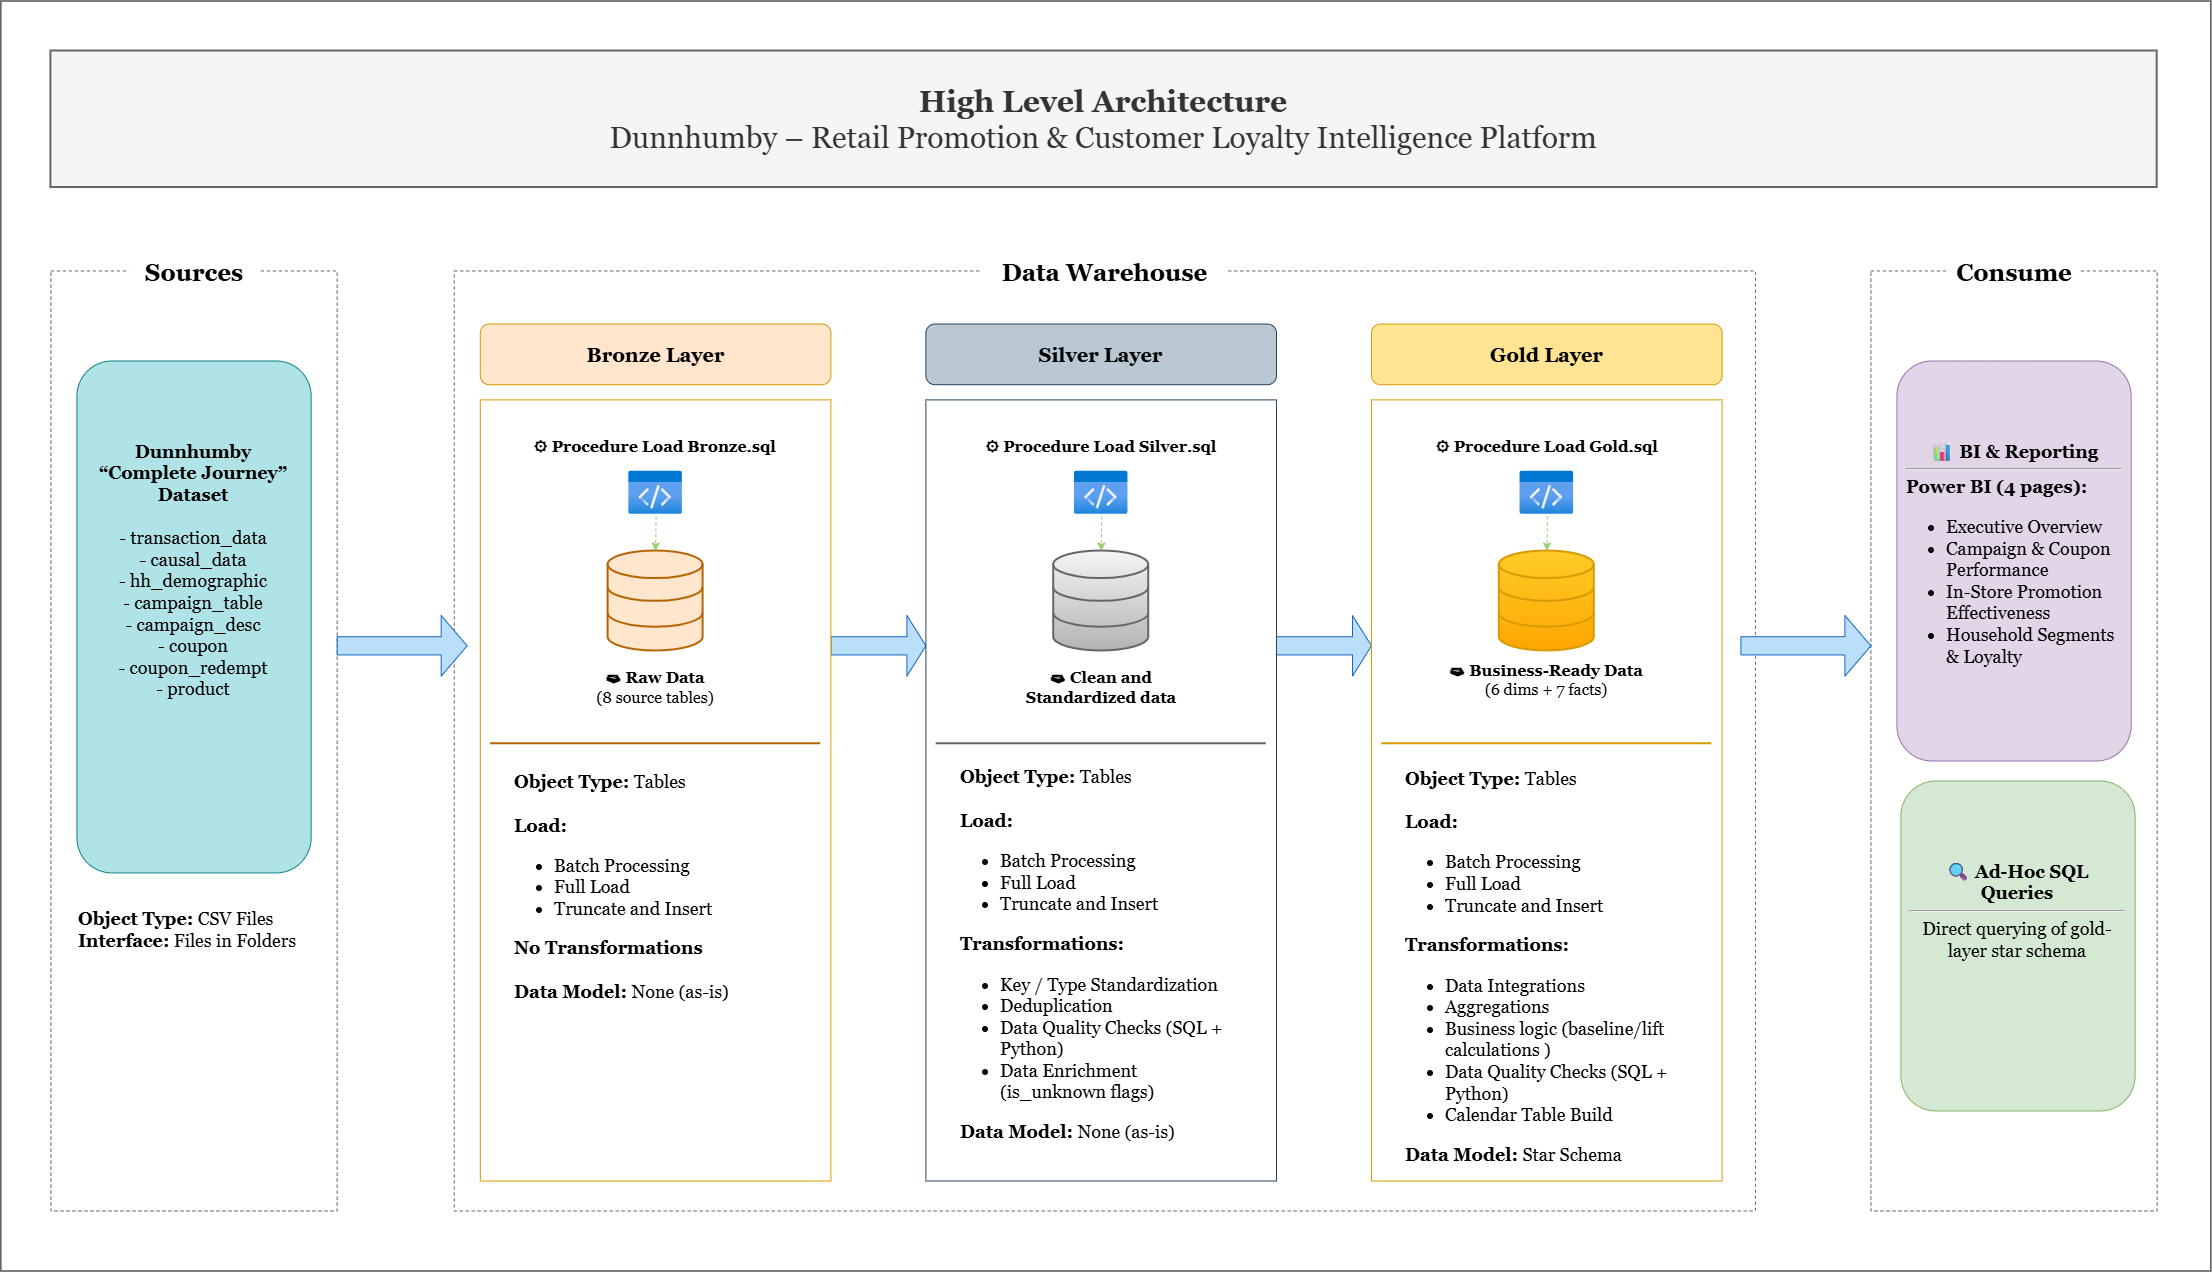
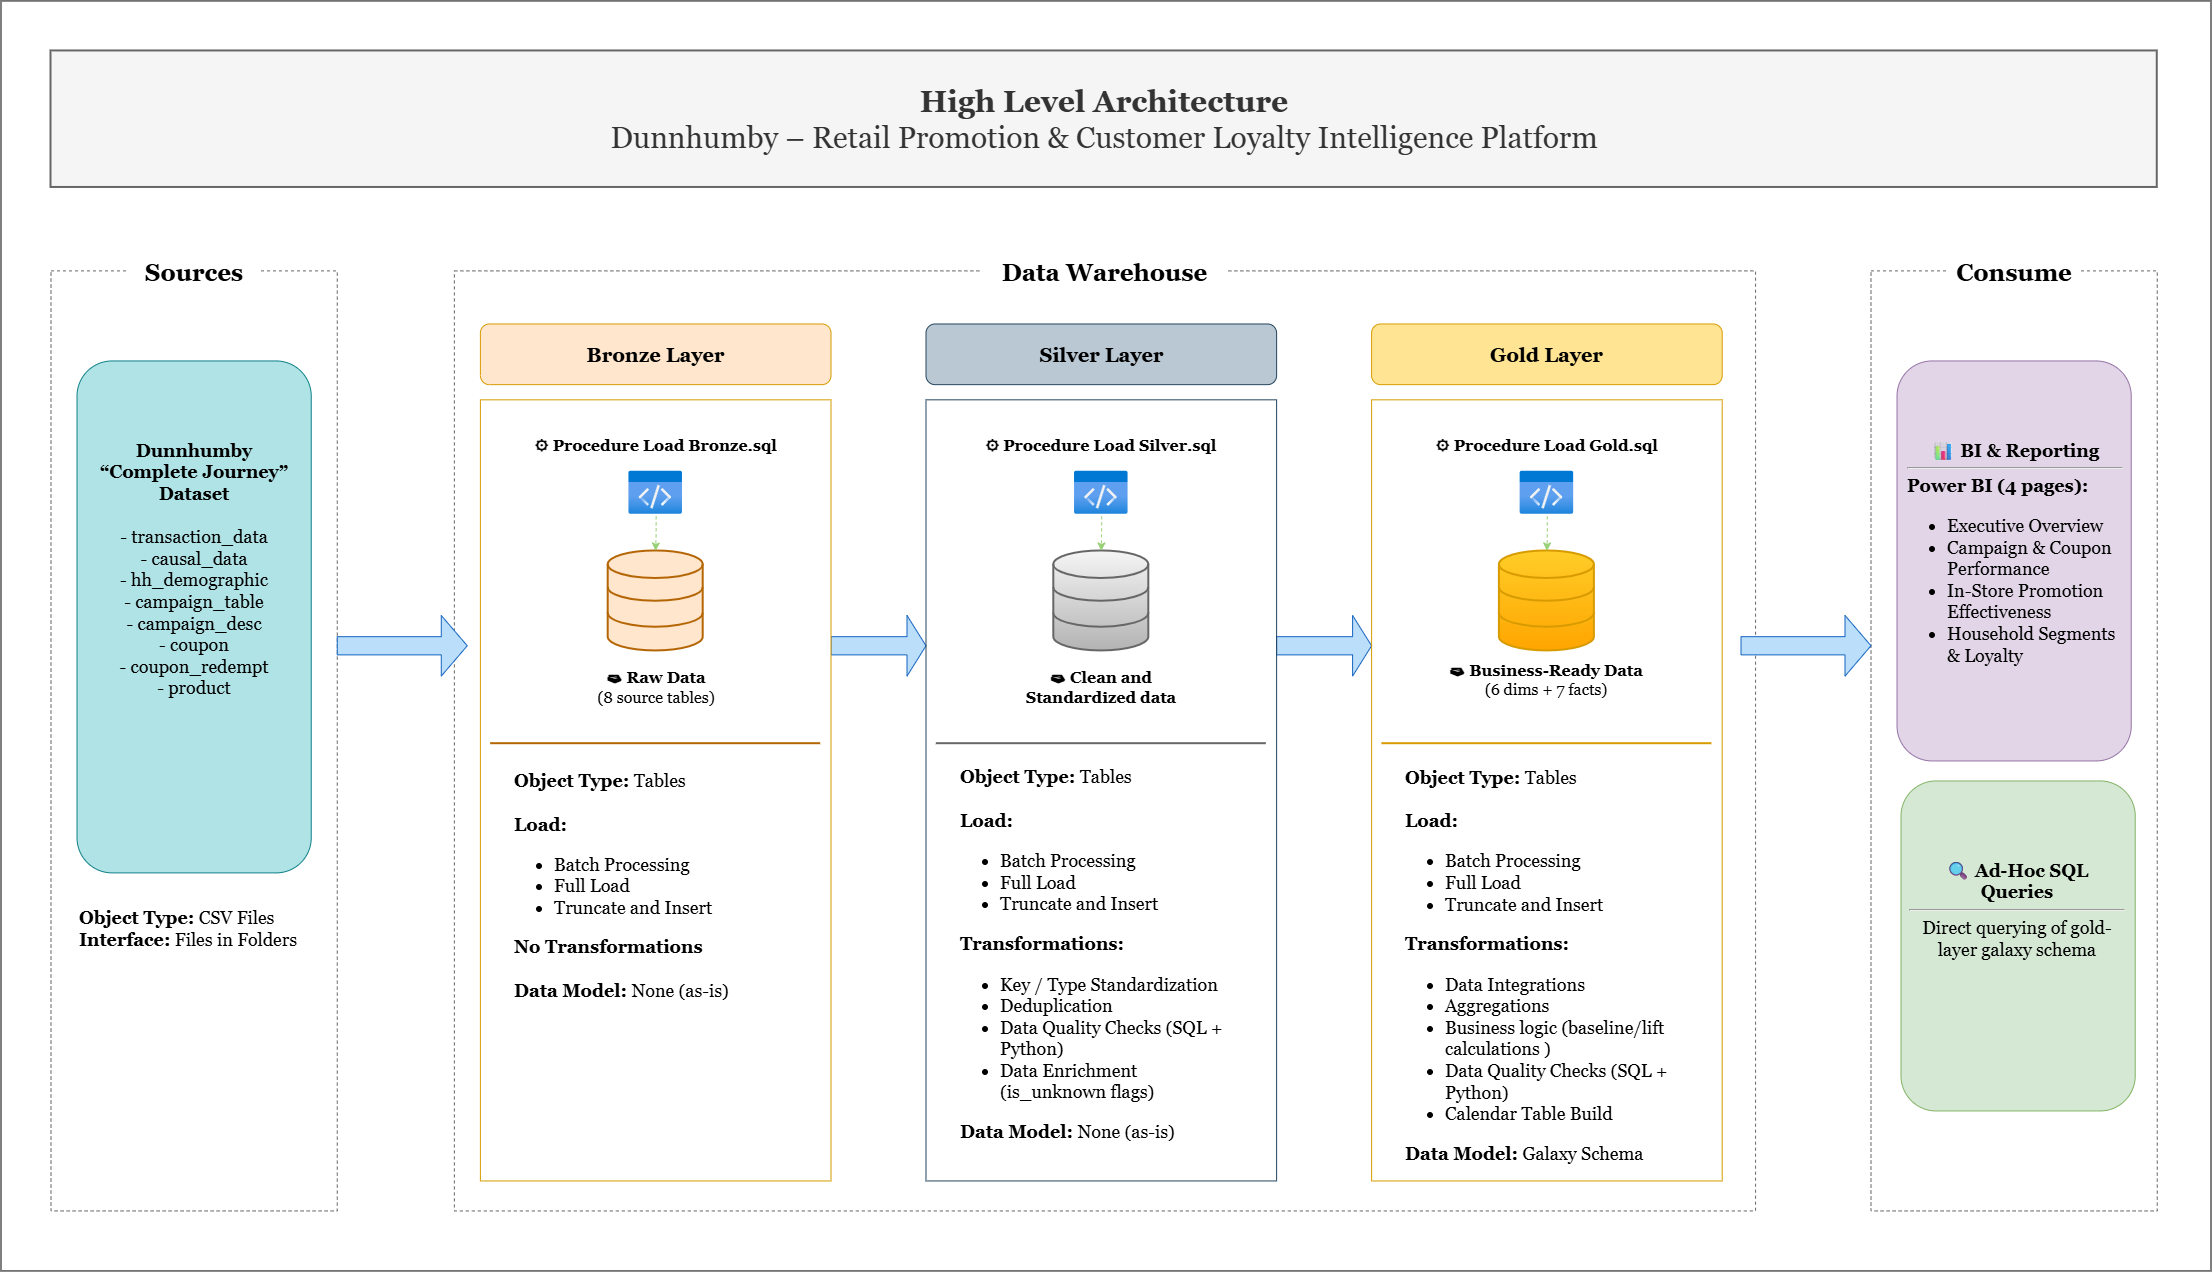
updated few comment scripts

diff --git a/tests/test_data_quality_gold.py b/tests/test_data_quality_gold.py
@@ -8,14 +8,16 @@ Script Purpose:
         - Null checks on required columns across dimension and fact tables
         - Duplicate key checks on unique primary and composite keys
         - Referential integrity checks validating child FKs exist in parent dimensions
-        - Row-count reconciliation comparing gold facts against silver sources
+        - Row-count reconciliation comparing gold tables against silver sources
         - Business threshold checks (MIN_DAYS >= 5 filter in gold.fact_campaign_lift)
-        - Redemption event integrity checks (DISTINCT redemption_event_key count 
-          matching silver source to account for product fan-out)
+        - Redemption event population checks (row count vs. a DISTINCT silver-side
+          grain to account for product fan-out)
 
-    Each check is parametrized where applicable (nulls, duplicates, referential
-    integrity, row counts) so a single test function covers every configured 
-    table/column combination dynamically.
+    Null checks, duplicate key checks, and referential integrity checks are
+    parametrized dynamically off the TABLE_CHECKS config, so one test function
+    covers every configured table/column combination. Row-count reconciliation
+    and business-logic checks are implemented as individual per-table test
+    functions.
 
 Usage Example:
     & "D:\Python 3.14.0\python.exe" -m pytest tests/test_data_quality_gold.py -v

diff --git a/README.md b/README.md
@@ -15,7 +15,7 @@ The focus is on identifying which promotions, campaigns, stores, and customer se
 ## 🎯 Project Goals
 
 - Build an end-to-end **Bronze → Silver → Gold data warehouse** using SQL Server.
-- Transform raw retail data into a clean, analytics-ready **star schema**.
+- Transform raw retail data into a clean, analytics-ready **galaxy schema**.
 - Establish behavioral **baseline sales** to estimate expected spending without promotion.
 - Measure **incremental sales lift** and identify **wasted promotional spend**.
 - Evaluate promotional effectiveness across **campaigns, coupons, mailers, displays, stores, categories, and household segments**.
@@ -42,9 +42,9 @@ The focus is on identifying which promotions, campaigns, stores, and customer se
 |---|---|
 | **Bronze** | Raw data loaded as-is from source CSVs, no transformation |
 | **Silver** | Cleaned, standardized, deduplicated data with data quality checks and explicit unknown-record handling |
-| **Gold** | Star-schema dimensional model with behavioral baselines, incremental lift, and wasted spend calculated |
+| **Gold** | Galaxy-schema dimensional model with behavioral baselines, incremental lift, and wasted spend calculated |
 
-See [`docs/data_model.png`](./docs/data_model.png) for the Gold-layer star schema and [`docs/data_integration.png`](./docs/data_integration.png) for the end-to-end data flow.
+See [`docs/data_model.png`](./docs/data_model.png) for the Gold-layer galaxy schema and [`docs/data_integration.png`](./docs/data_integration.png) for the end-to-end data flow.
 
 ---
 
@@ -80,7 +80,7 @@ Full detail, visuals, and interpretation notes: [`powerbi/Readme.md`](./powerbi/
 |---|---|
 | **Executive Overview** | ~$1.45M in discount spend generated only ~$230.66K in incremental sales (~6× spend-to-lift, roughly $0.16 incremental sales per $1 spent). 18.97% of spend was wasted. |
 | **Campaign & Coupon Performance** | Total incremental lift across campaigns is ~-$24.86M; most campaigns run 85–93% below baseline. Coupon redemption rate: 39.80%. |
-| **In-Store Promotion Effectiveness** | Mailer promotions generate positive lift (~$1.15K/day); display promotions generate negative lift (~-$167.71/day). |
+| **In-Store Promotion Effectiveness** | Mailer promotions generate positive lift (\~$1.15K/day); display promotions generate negative lift (\~-$167.71/day). |
 | **Household Segments & Loyalty** | Across 1,584 targeted households, average incremental lift is $690.28/household. Middle-age segments outperform the average by 59–78%. |
 
 **Overall takeaway:** promotional strategy should move from broad, uniform discounting toward campaign-, mechanism-, and customer-segment-level evaluation. See [`docs/business_logic_and_terminology.md`](./docs/business_logic_and_terminology.md) for the definitions and formulas behind these numbers.
@@ -152,7 +152,7 @@ Open the `.pbix` in Power BI Desktop, connect to the `gold` schema, and refresh.
 | [`docs/Directory_Structure.md`](./docs/Directory_Structure.md) | Detailed repository structure and file/folder descriptions |
 | [`scripts/bronze/Readme.md`](./scripts/bronze/Readme.md) | Bronze table descriptions + load procedure |
 | [`scripts/silver/Readme.md`](./scripts/silver/Readme.md) | Silver table descriptions + load procedure + DQ checks |
-| [`scripts/gold/Readme.md`](./scripts/gold/Readme.md) | Gold star-schema, table descriptions, transformations, execution guide |
+| [`scripts/gold/Readme.md`](./scripts/gold/Readme.md) | Gold galaxy-schema, table descriptions, transformations, execution guide |
 | [`powerbi/Readme.md`](./powerbi/Readme.md) | Dashboard pages, interactive features, key findings |
 | [`dataset/Readme.md`](./dataset/Readme.md) | Dataset source + full-file download instructions |
 

diff --git a/scripts/gold/Readme.md b/scripts/gold/Readme.md
@@ -1,5 +1,5 @@
 # Gold Layer Documentation
-This directory contains the SQL scripts required to model and load star-schema dimensions and analytical fact tables from the Silver Layer into the Gold Layer for the Retail Promotion Intelligence project (based on the dunnhumby - The Complete Journey dataset).
+This directory contains the SQL scripts required to model and load galaxy-schema dimensions and analytical fact tables from the Silver Layer into the Gold Layer for the Retail Promotion Intelligence project (based on the dunnhumby - The Complete Journey dataset).
 
 ## Overview:
 The Gold Layer represents the business and consumption layer within the Medallion Architecture (Bronze ➔ Silver ➔ Gold). It transforms cleaned operational data into dimensional models specifically designed to evaluate promotional effectiveness, incremental lift, and campaign ROI.

diff --git a/docs/directory_structure.md b/docs/directory_structure.md
@@ -20,7 +20,7 @@
 |   ├── business_logic_and_terminology.md                  # Business definitions, formulas, and terminology
 |   ├── data_architecture.png                              # Overall Bronze → Silver → Gold architecture
 |   ├── data_integration.png                               # End-to-end data integration and processing flow
-|   ├── data_model.png                                     # Gold-layer star schema and table relationships
+|   ├── data_model.png                                     # Gold-layer galaxy schema and table relationships
 |   ├── Directory_Structure.md                             # Detailed repository structure and file descriptions
 |   └── dunnhumby - The Complete Journey User Guide.pdf    # Original dataset user guide
 |
